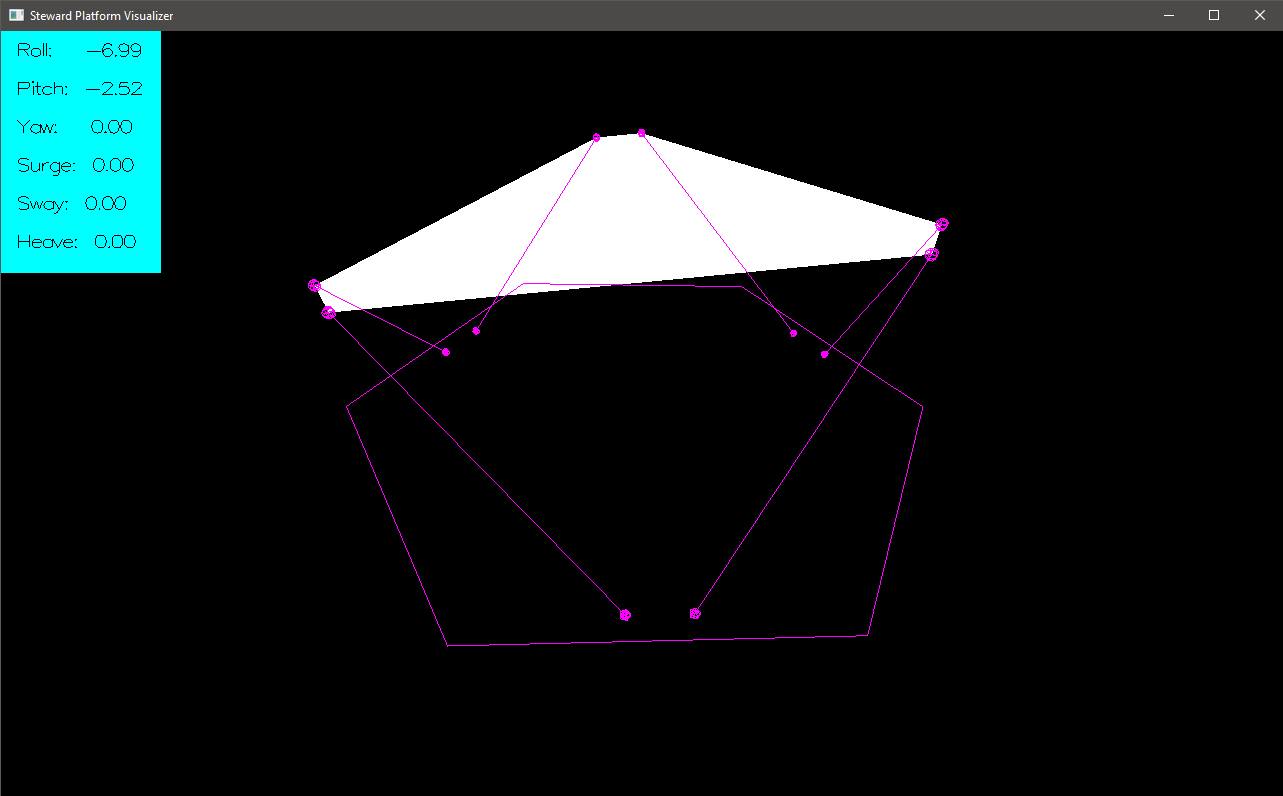
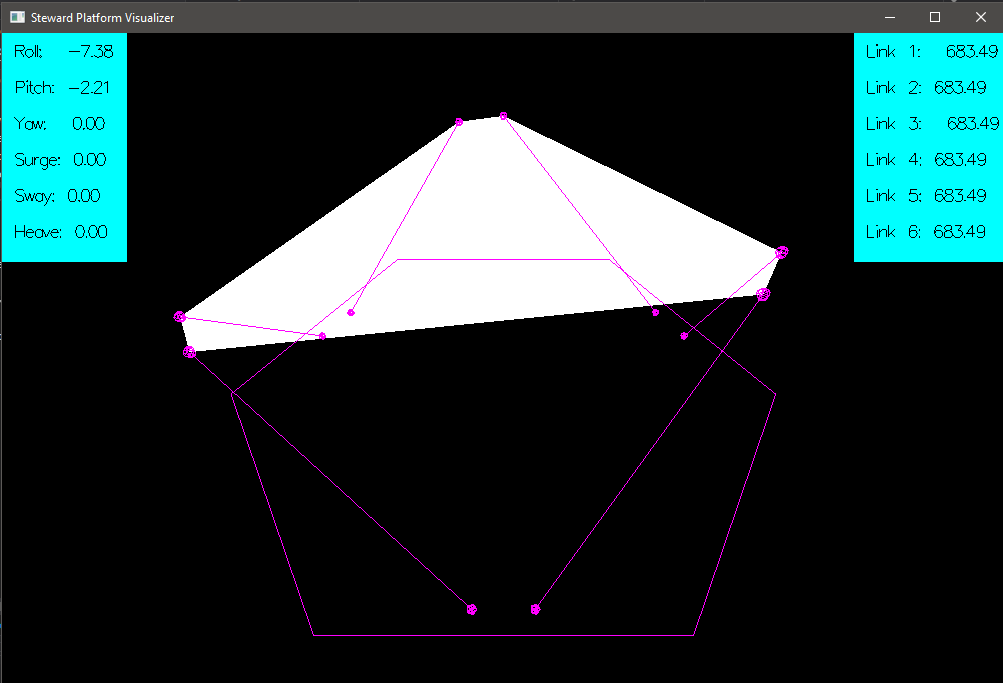
Added inverse kinematic solver

diff --git a/Stewart Platform Visualiser/main.h b/Stewart Platform Visualiser/main.h
@@ -7,6 +7,8 @@
 
 
 // CONFIG
+#define DISPLAY_INVERSE_KINEMATICS
+
 #define BOTTOM_LINK_1 { -530.0, 233.0, 0 }
 #define TOP_LINK_1 { -530.0, -233.0, 500 }
 
@@ -56,6 +58,13 @@ const float bottom_link_5[3] = BOTTOM_LINK_5;
 const float top_link_5[3] = TOP_LINK_5;
 const float bottom_link_6[3] = BOTTOM_LINK_6;
 const float top_link_6[3] = TOP_LINK_6;
+
+float link_1_length;
+float link_2_length;
+float link_3_length;
+float link_4_length;
+float link_5_length;
+float link_6_length;
 
 // Calculated new platform (top link) vertices after transformations
 GLfloat v_1_new[4] = { 0.0, 0.0, 0.0, 0.0 };
@@ -170,6 +179,14 @@ void draw_platform(GLfloat x_1, GLfloat y_1, GLfloat z_1,
     matrix_mult_16_4(translation_rotation_matrix, v_4, v_4_new);
     matrix_mult_16_4(translation_rotation_matrix, v_5, v_5_new);
     matrix_mult_16_4(translation_rotation_matrix, v_6, v_6_new);
+
+    // inverse kinematics
+    link_1_length = sqrt(pow(bottom_link_1[0] - v_1[0], 2) + pow(bottom_link_1[1] - v_1[1], 2) + pow(bottom_link_1[2] - v_1[2], 2));
+    link_2_length = sqrt(pow(bottom_link_2[0] - v_2[0], 2) + pow(bottom_link_2[1] - v_2[1], 2) + pow(bottom_link_2[2] - v_2[2], 2));
+    link_3_length = sqrt(pow(bottom_link_3[0] - v_3[0], 2) + pow(bottom_link_3[1] - v_3[1], 2) + pow(bottom_link_3[2] - v_3[2], 2));
+    link_4_length = sqrt(pow(bottom_link_4[0] - v_4[0], 2) + pow(bottom_link_4[1] - v_4[1], 2) + pow(bottom_link_4[2] - v_4[2], 2));
+    link_5_length = sqrt(pow(bottom_link_5[0] - v_5[0], 2) + pow(bottom_link_5[1] - v_5[1], 2) + pow(bottom_link_5[2] - v_5[2], 2));
+    link_6_length = sqrt(pow(bottom_link_6[0] - v_6[0], 2) + pow(bottom_link_6[1] - v_6[1], 2) + pow(bottom_link_6[2] - v_6[2], 2));
 
 
     glBegin(GL_TRIANGLES);   
@@ -303,6 +320,25 @@ void display() {
     output(10, 110, std::string("Surge: ") + float_to_str(inputsPtr->surge, 2));
     output(10, 140, std::string("Sway: ") + float_to_str(inputsPtr->sway, 2));
     output(10, 170, std::string("Heave: ") + float_to_str(inputsPtr->heave, 2));
+
+#ifdef DISPLAY_INVERSE_KINEMATICS
+    glColor3f(GUI_BOX_COLOR);
+    glBegin(GL_QUADS);
+    glVertex2f(SCREEN_WIDTH-120, 0.0);
+    glVertex2f(SCREEN_WIDTH, 0.0);
+    glVertex2f(SCREEN_WIDTH, 190.0);
+    glVertex2f(SCREEN_WIDTH-120, 190.0);
+    glEnd();
+
+    glColor3f(0.0f, 0.0f, 0.0f);
+    output(SCREEN_WIDTH-110, 20, std::string("Link 1:  ") + float_to_str(link_1_length, 2));
+    output(SCREEN_WIDTH-110, 50, std::string("Link 2: ") + float_to_str(link_1_length, 2));
+    output(SCREEN_WIDTH-110, 80, std::string("Link 3:  ") + float_to_str(link_1_length, 2));
+    output(SCREEN_WIDTH-110, 110, std::string("Link 4: ") + float_to_str(link_1_length, 2));
+    output(SCREEN_WIDTH-110, 140, std::string("Link 5: ") + float_to_str(link_1_length, 2));
+    output(SCREEN_WIDTH-110, 170, std::string("Link 6: ") + float_to_str(link_1_length, 2));
+#endif // DISPLAY_INVERSE_KINEMATICS
+
 
     // Make sure we can render 3d again
     glMatrixMode(GL_PROJECTION);

diff --git a/Readme.md b/Readme.md
@@ -1,6 +1,5 @@
 # Steward Platform Visualizer
-A simple openGL based steward platform visualizer.
-- This is not currently a forward/inverse kinematic solver, just a visualizer, although I may add this in the future.
+A simple openGL based steward platform visualizer and inverse kinematic solver.
 
 
 ![example](example.png)
